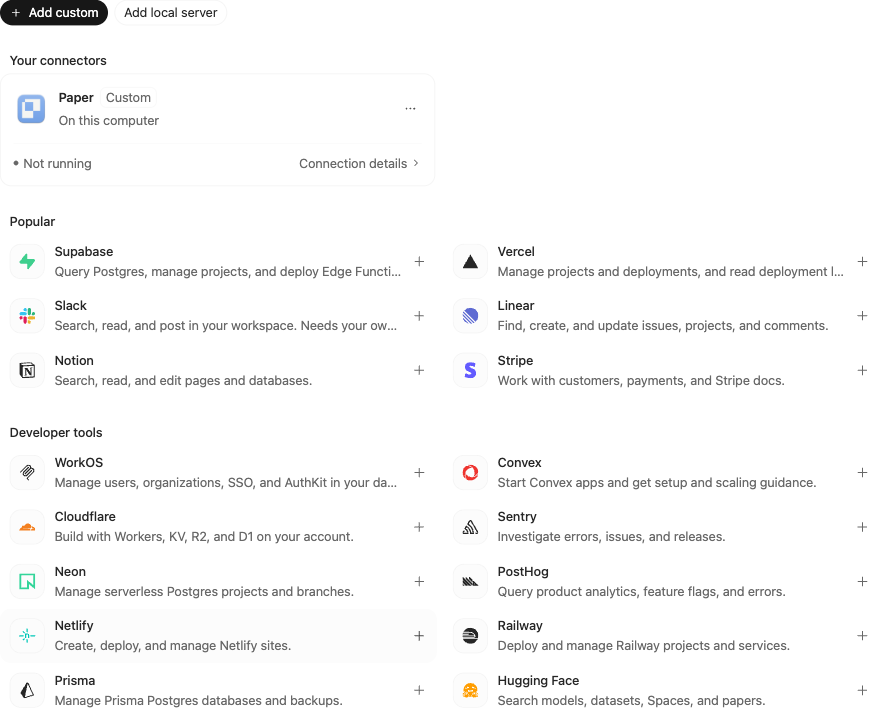
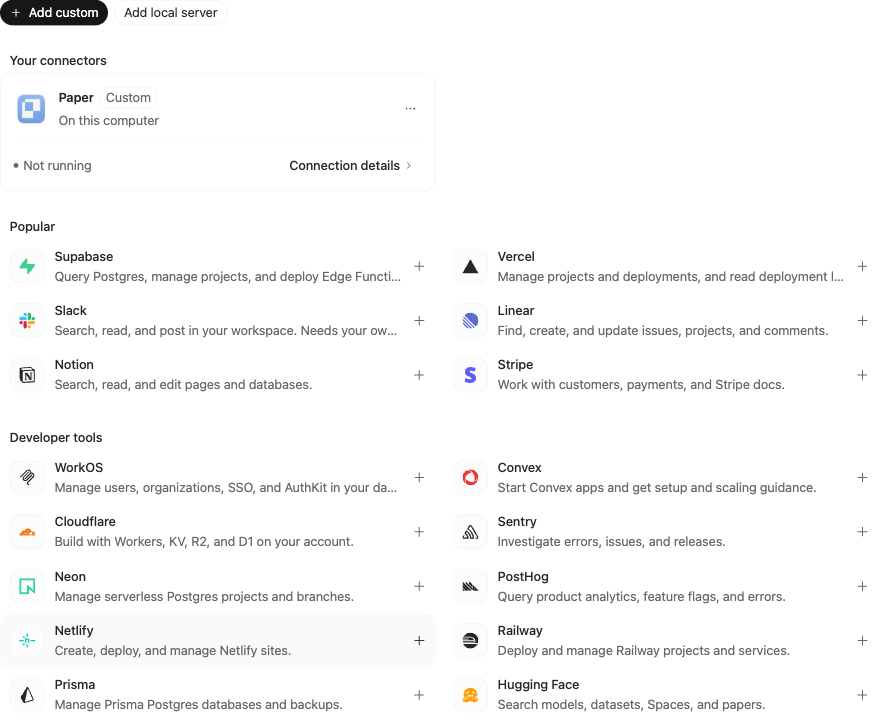
refactor(web): reuse shared buttons for connector details

diff --git a/apps/web/src/components/settings/McpConnectorProposalCard.tsx b/apps/web/src/components/settings/McpConnectorProposalCard.tsx
@@ -1,5 +1,6 @@
 import { useMutation, useQuery, useQueryClient } from "@tanstack/react-query";
 import { useId, useState } from "react";
+import { Button } from "~/components/ui/button";
 import { DisclosureChevron } from "~/components/ui/DisclosureChevron";
 import { DisclosureRegion } from "~/components/ui/DisclosureRegion";
 import { ProposalActions } from "~/components/ui/proposal-actions";
@@ -64,16 +65,18 @@ export function McpConnectorProposalCard({ proposalId }: { proposalId: string })
         </p>
       ) : null}
       {reviewOpen ? (
-        <button
+        <Button
           type="button"
+          variant="ghost"
+          size="chip"
           aria-expanded={reviewOpen}
           aria-controls={detailsId}
           onClick={() => setReviewingId(null)}
-          className="mt-4 flex items-center gap-1 rounded text-ui-sm text-muted-foreground hover:text-foreground focus-visible:outline-2 focus-visible:outline-ring"
+          className="mt-4"
         >
           Connection details
           <DisclosureChevron open={reviewOpen} className="size-3.5" />
-        </button>
+        </Button>
       ) : null}
       <DisclosureRegion open={reviewOpen}>
         <div id={detailsId} className="space-y-4 pt-4">

diff --git a/apps/web/src/components/settings/McpConnectorsSettingsPanel.tsx b/apps/web/src/components/settings/McpConnectorsSettingsPanel.tsx
@@ -219,16 +219,17 @@ function ConnectedRow(props: {
             Reconnect
           </Button>
         ) : null}
-        <button
+        <Button
           type="button"
+          variant="ghost"
+          size="chip"
           aria-expanded={detailsOpen}
           aria-controls={detailsId}
           onClick={() => setDetailsOpen((open) => !open)}
-          className="flex items-center gap-1 rounded text-ui-sm text-muted-foreground hover:text-foreground focus-visible:outline-2 focus-visible:outline-ring"
         >
           Connection details
           <DisclosureChevron open={detailsOpen} className="size-3.5" />
-        </button>
+        </Button>
       </div>
       <DisclosureRegion open={detailsOpen}>
         <div id={detailsId} className="pt-4">
